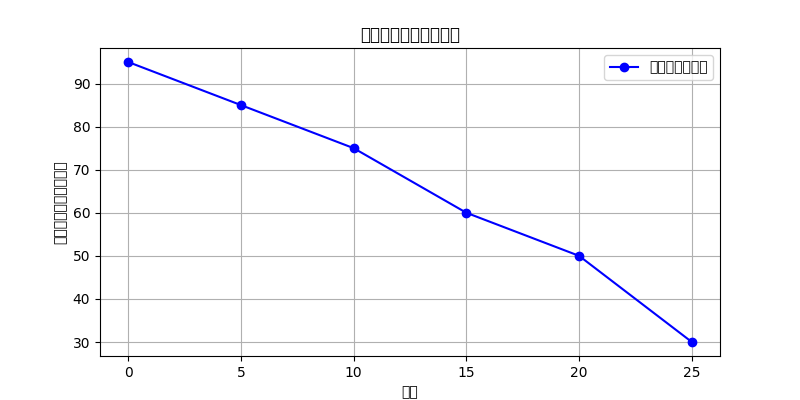
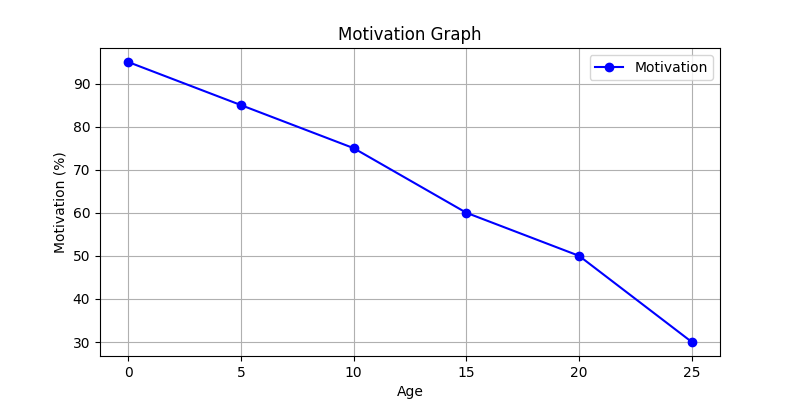
fix: 日本語が文字化けするため英語で表記

diff --git a/src/graph.py b/src/graph.py
@@ -9,10 +9,10 @@ motivation = data["motivation"]
 
 # モチベーショングラフを作成
 plt.figure(figsize=(8, 4))
-plt.plot(ages, motivation, marker='o', linestyle='-', color='blue', label='モチベーション')
-plt.title("モチベーショングラフ")
-plt.xlabel("年齢")
-plt.ylabel("モチベーション（％）")
+plt.plot(ages, motivation, marker='o', linestyle='-', color='blue', label='Motivation')
+plt.title("Motivation Graph")
+plt.xlabel("Age")
+plt.ylabel("Motivation (%)")
 plt.legend()
 plt.grid(True)
 
